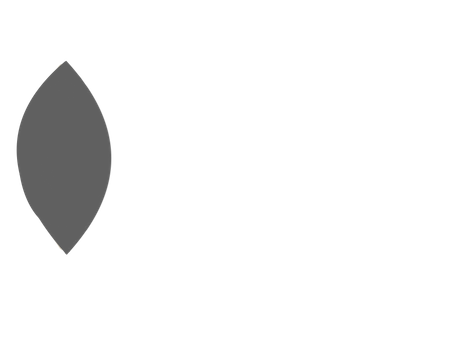
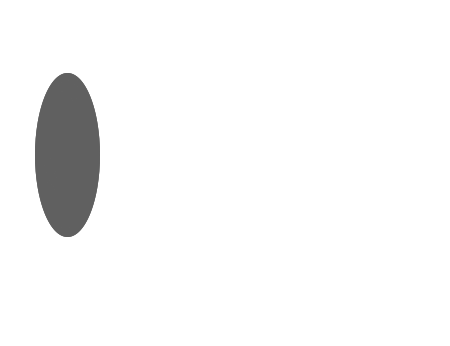
mad e eye pngs smaller

Changed region(s): [[0.0311, 0.1734, 0.1867, 0.7514], [0.1867, 0.2601, 0.2489, 0.6647]]

diff --git a/eye/index.html b/eye/index.html
@@ -18,27 +18,27 @@
 						<h1>The eye</h1>
 
 			<div id="pupil2">
-				<img id="pupil_label" src="styles/eye/pupil_label.png"/>
+				<!-- <img id="pupil_label" src="styles/eye/pupil_label.png"/> -->
 			</div>
 
 			<div id="cornea">
-				<img id="cornea_label" src="styles/eye/cornea_label.png"/>
+				<!-- <img id="cornea_label" src="styles/eye/cornea_label.png"/> -->
 			</div>
 
 			<div id="fovea">
-				<img id="fovea_label" src="styles/eye/fovea_label.png"/>
+				<!-- <img id="fovea_label" src="styles/eye/fovea_label.png"/> -->
             </div>
 
 		    <div id="cillary_muscle">
-		    	<img id="cillary_muscle_label" src="styles/eye/cillary_muscle_label.png"/>
+		    	<!-- <img id="cillary_muscle_label" src="styles/eye/cillary_muscle_label.png"/> -->
 		    </div>
 
 			<div id="lens">
-				<img id="lens_label" src="styles/eye/lens_label.png"/>
+				<!-- <img id="lens_label" src="styles/eye/lens_label.png"/> -->
 			</div>
 
      <div id="conjunctiva">
-				<img id="conjunctiva_label" src="styles/eye/conjunctiva_label.png"/>
+				<!-- <img id="conjunctiva_label" src="styles/eye/conjunctiva_label.png"/> -->
 			</div>
 
 
@@ -56,17 +56,6 @@
 <h2 style="color:#00ffb5;"> Lens</h2>
 <p> Focuses light onto the retina </p>
 </div>
-
-		</section>
-		<section id="about">
-<div><h1>More info</h1>
-
-
-
-
-
-				</div>
-
 
 		</section>
 		<!-- End Site Content -->
